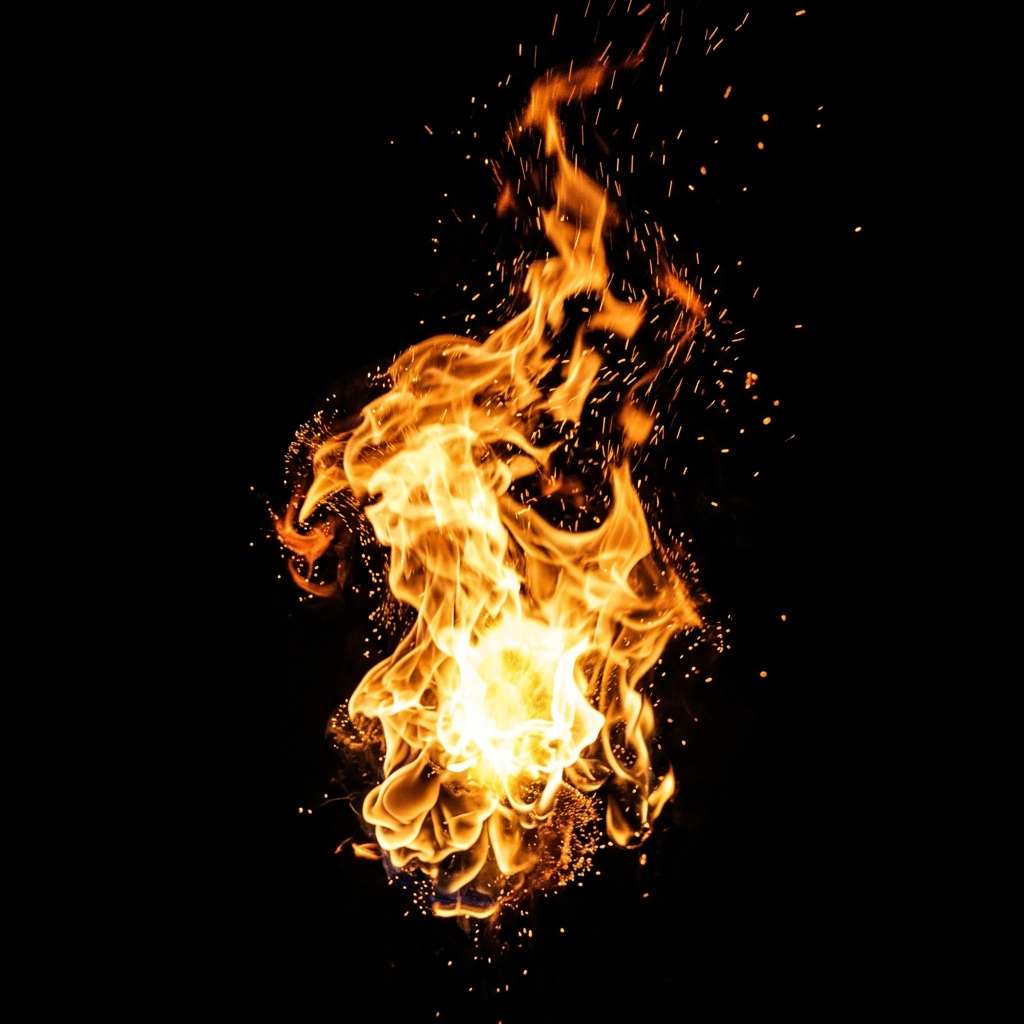
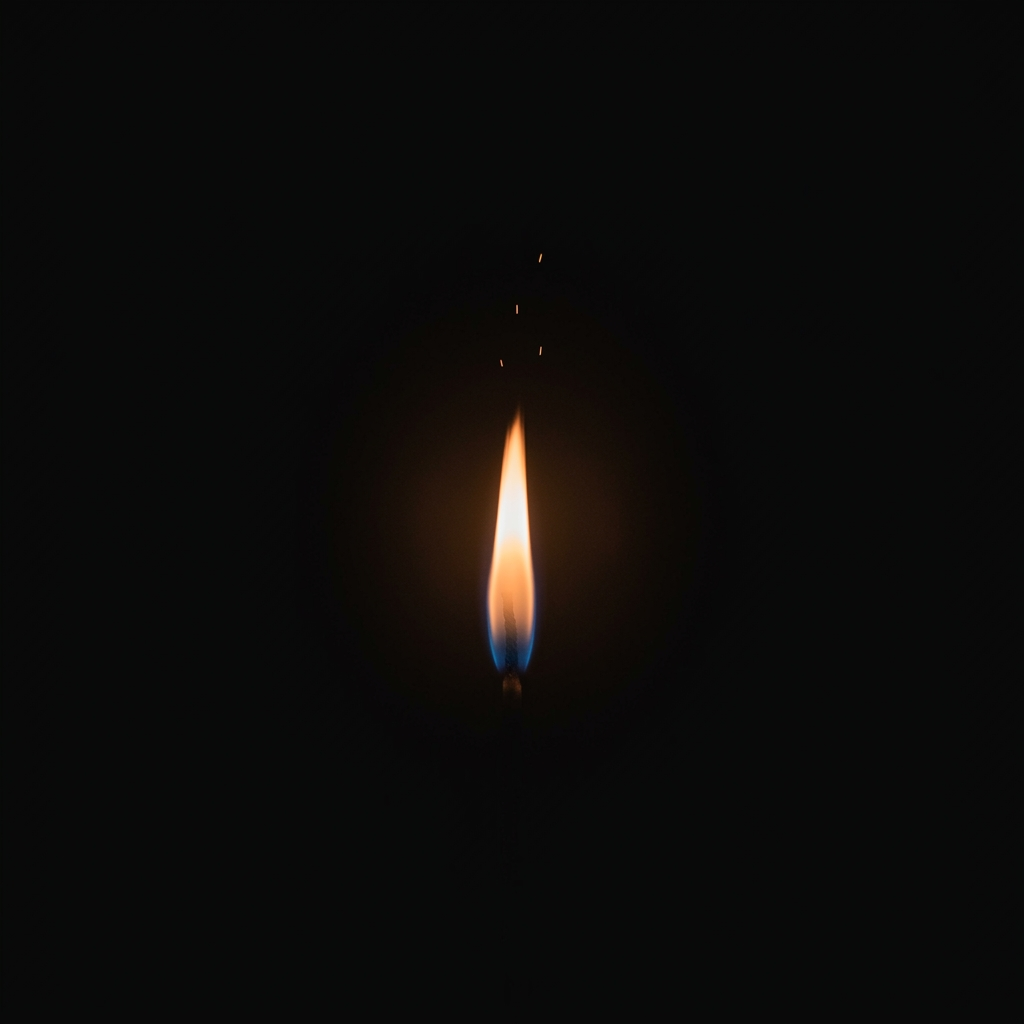
nuevos cambios

Changed region(s): [[0.25, 0.0, 0.7188, 0.9375], [0.7188, 0.3438, 0.75, 0.375], [0.6875, 0.0312, 0.7188, 0.0625]]

diff --git a/juego_normes.html b/juego_normes.html
@@ -730,19 +730,17 @@
                 const fireScale = size * 1.8;
                 const seedVal = seed * 123.45;
                 
-                // Tela quemada con bordes fotorrealistas integrándose en el fondo
+                // Tela quemada fina y sutil integrándose en el fondo
                 octx.globalCompositeOperation = "source-over"; 
-                octx.globalAlpha = 1.0;
+                octx.globalAlpha = 0.7; // Más transparente para que la tela se sienta muy fina
                 
                 // 1. Dibujar el impacto: Agujero en tela fotorrealista
                 const tiltHole = (seedVal % 5 - 2) * 0.3; // Rotar aleatoriamente el impacto
                 octx.rotate(tiltHole);
 
                 if (agujeroImg.complete && agujeroImg.naturalHeight !== 0) {
-                    // Ahora la imagen es de alta calidad y la tela se difumina suavemente,
-                    // así que podemos ponerla de un tamaño más grande para que se aprecie la textura quemada
-                    const aW = fireScale * 3.5; 
-                    const aH = fireScale * 3.5;
+                    const aW = fireScale * 2.0; // Mucho más pequeño y delicado
+                    const aH = fireScale * 2.0;
                     octx.drawImage(agujeroImg, -aW / 2, -aH / 2, aW, aH);
                 } else {
                     // Fallback negro
@@ -762,10 +760,10 @@
                 octx.rotate(tilt);
 
                 if (fuegoRealImg.complete && fuegoRealImg.naturalHeight !== 0) {
-                    const fWidth = fireScale * 5.0;
-                    const fHeight = fireScale * 5.0;
+                    const fWidth = fireScale * 4.5;
+                    const fHeight = fireScale * 4.5;
                     // Centrar horizontalmente y que la base del fuego coincida con el centro de la bola
-                    octx.drawImage(fuegoRealImg, -fWidth * 0.5, -fHeight * 0.75, fWidth, fHeight);
+                    octx.drawImage(fuegoRealImg, -fWidth * 0.5, -fHeight * 0.65, fWidth, fHeight);
                 } else {
                     // Fallback por si la imagen no ha cargado
                     octx.fillStyle = "rgba(255, 180, 0, 0.9)";

diff --git a/index.html b/index.html
@@ -1861,7 +1861,7 @@ La Real Acadèmia de Cultura Valenciana reafirma, una volta més, el seu comprom
 
     <!-- Modal About -->
     <div class="modern-modal" id="about-modal">
-        <div class="modal-content" style="max-width: 800px; max-height: 90vh; overflow-y: auto; text-align: left; position: relative; line-height: 1.6; font-size: 1.1rem;">
+        <div class="modal-content" style="width: 90vw; max-width: 1200px; max-height: 90vh; overflow-y: auto; text-align: left; position: relative; line-height: 1.6; font-size: 1.1rem;">
             <button class="close-modal" id="close-about" style="position: absolute; top: 15px; right: 15px; width: 40px; height: 40px; border-radius: 50%; padding: 0; display: flex; justify-content: center; align-items: center; z-index: 10;">&times;</button>
             
             <div style="display: flex; justify-content: flex-end; gap: 10px; margin-bottom: 20px; position: sticky; top: 0; z-index: 5;">

diff --git a/index_movil.html b/index_movil.html
@@ -1039,7 +1039,7 @@ La Real Acadèmia de Cultura Valenciana reafirma, una volta més, el seu comprom
 
     <!-- Modal About -->
     <div class="modern-modal" id="about-modal">
-        <div class="modal-content" style="max-width: 800px; max-height: 90vh; overflow-y: auto; text-align: left; position: relative; line-height: 1.6; font-size: 1.1rem;">
+        <div class="modal-content" style="width: 90vw; max-width: 1200px; max-height: 90vh; overflow-y: auto; text-align: left; position: relative; line-height: 1.6; font-size: 1.1rem;">
             <button class="close-modal" id="close-about" style="position: absolute; top: 15px; right: 15px; width: 40px; height: 40px; border-radius: 50%; padding: 0; display: flex; justify-content: center; align-items: center; z-index: 10;">&times;</button>
             
             <div style="display: flex; justify-content: flex-end; gap: 10px; margin-bottom: 20px; position: sticky; top: 0; z-index: 5;">
